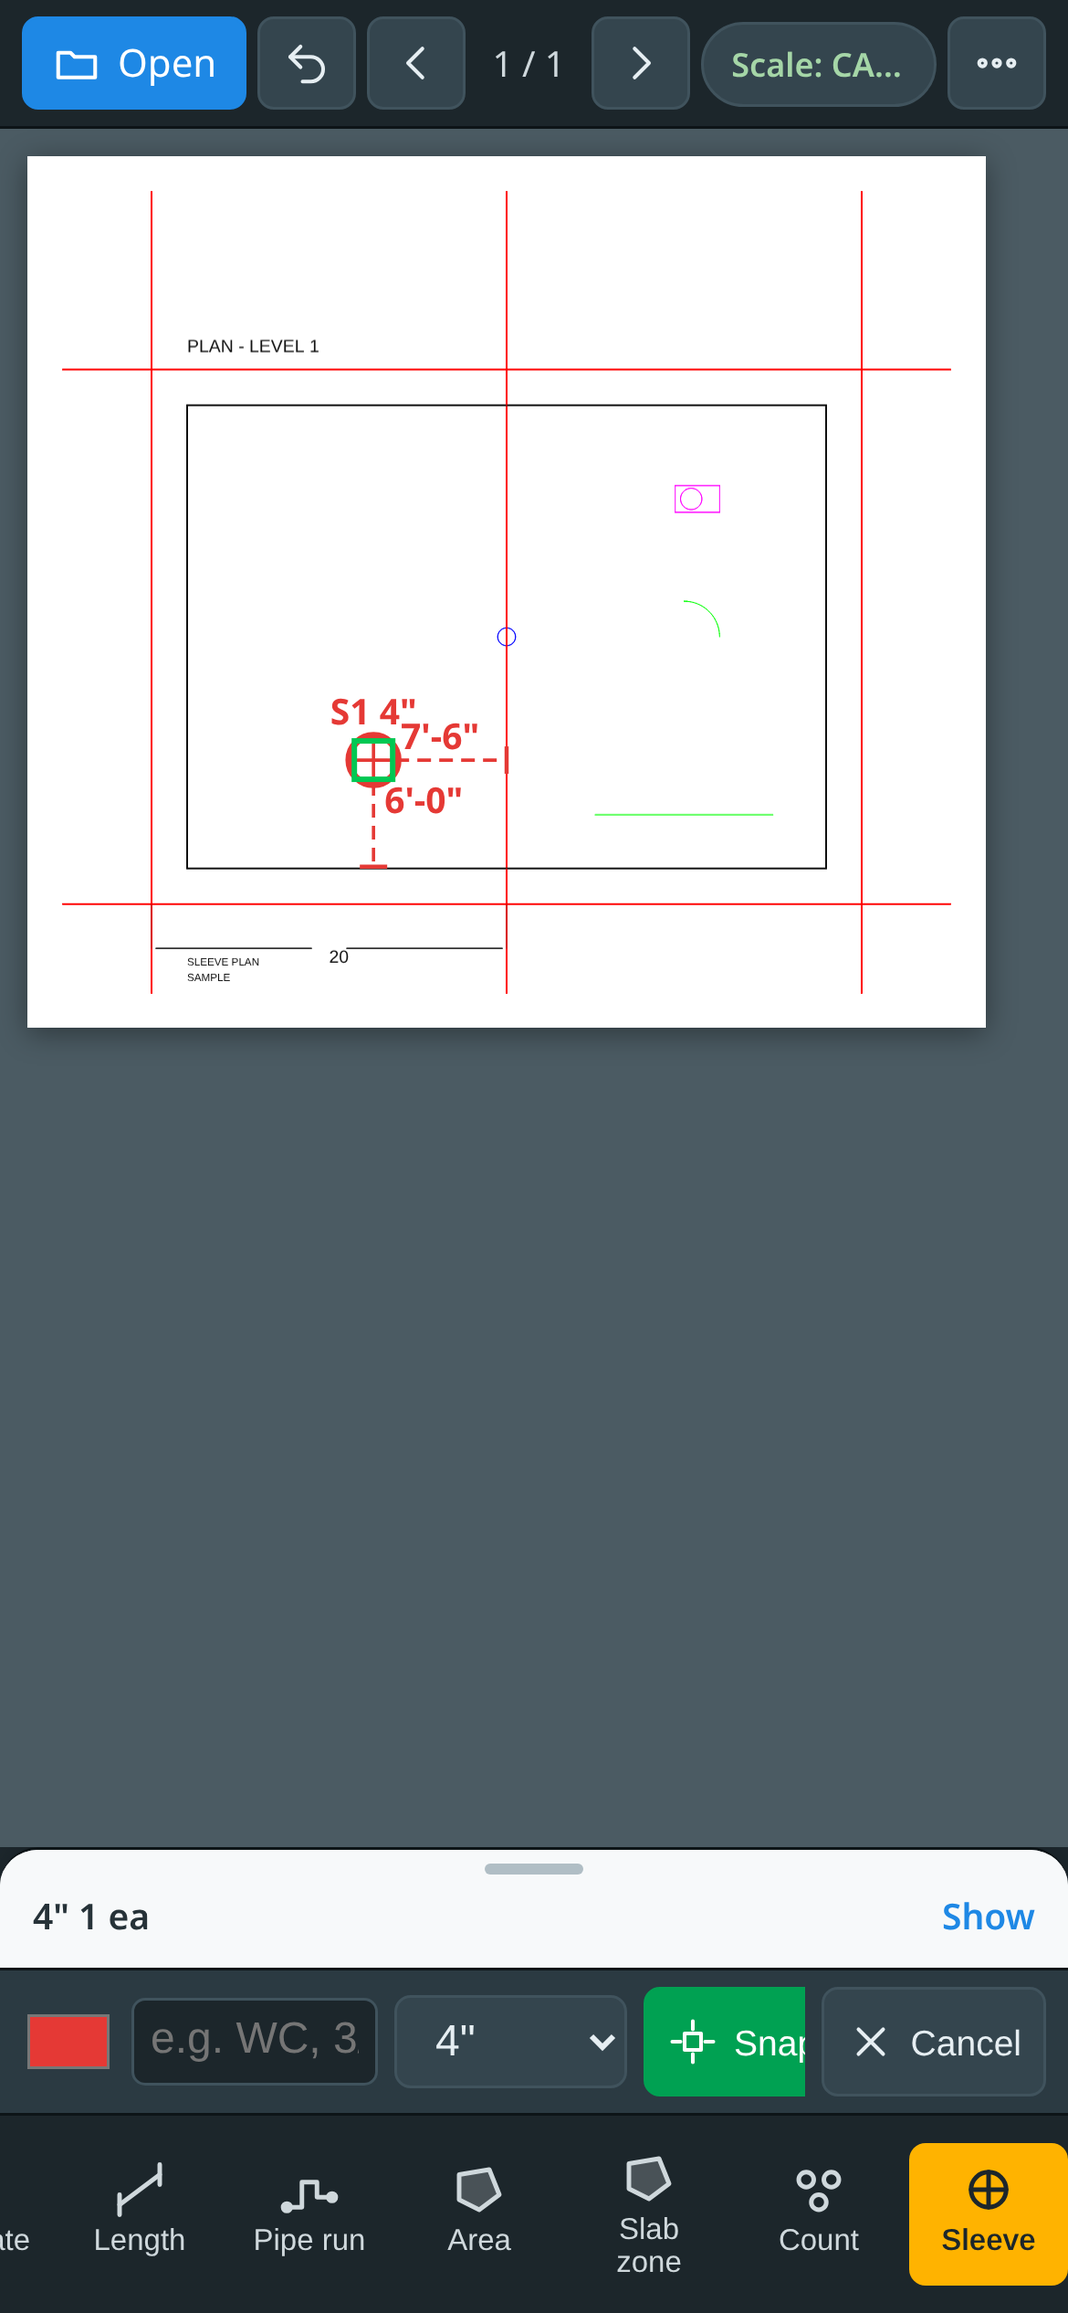
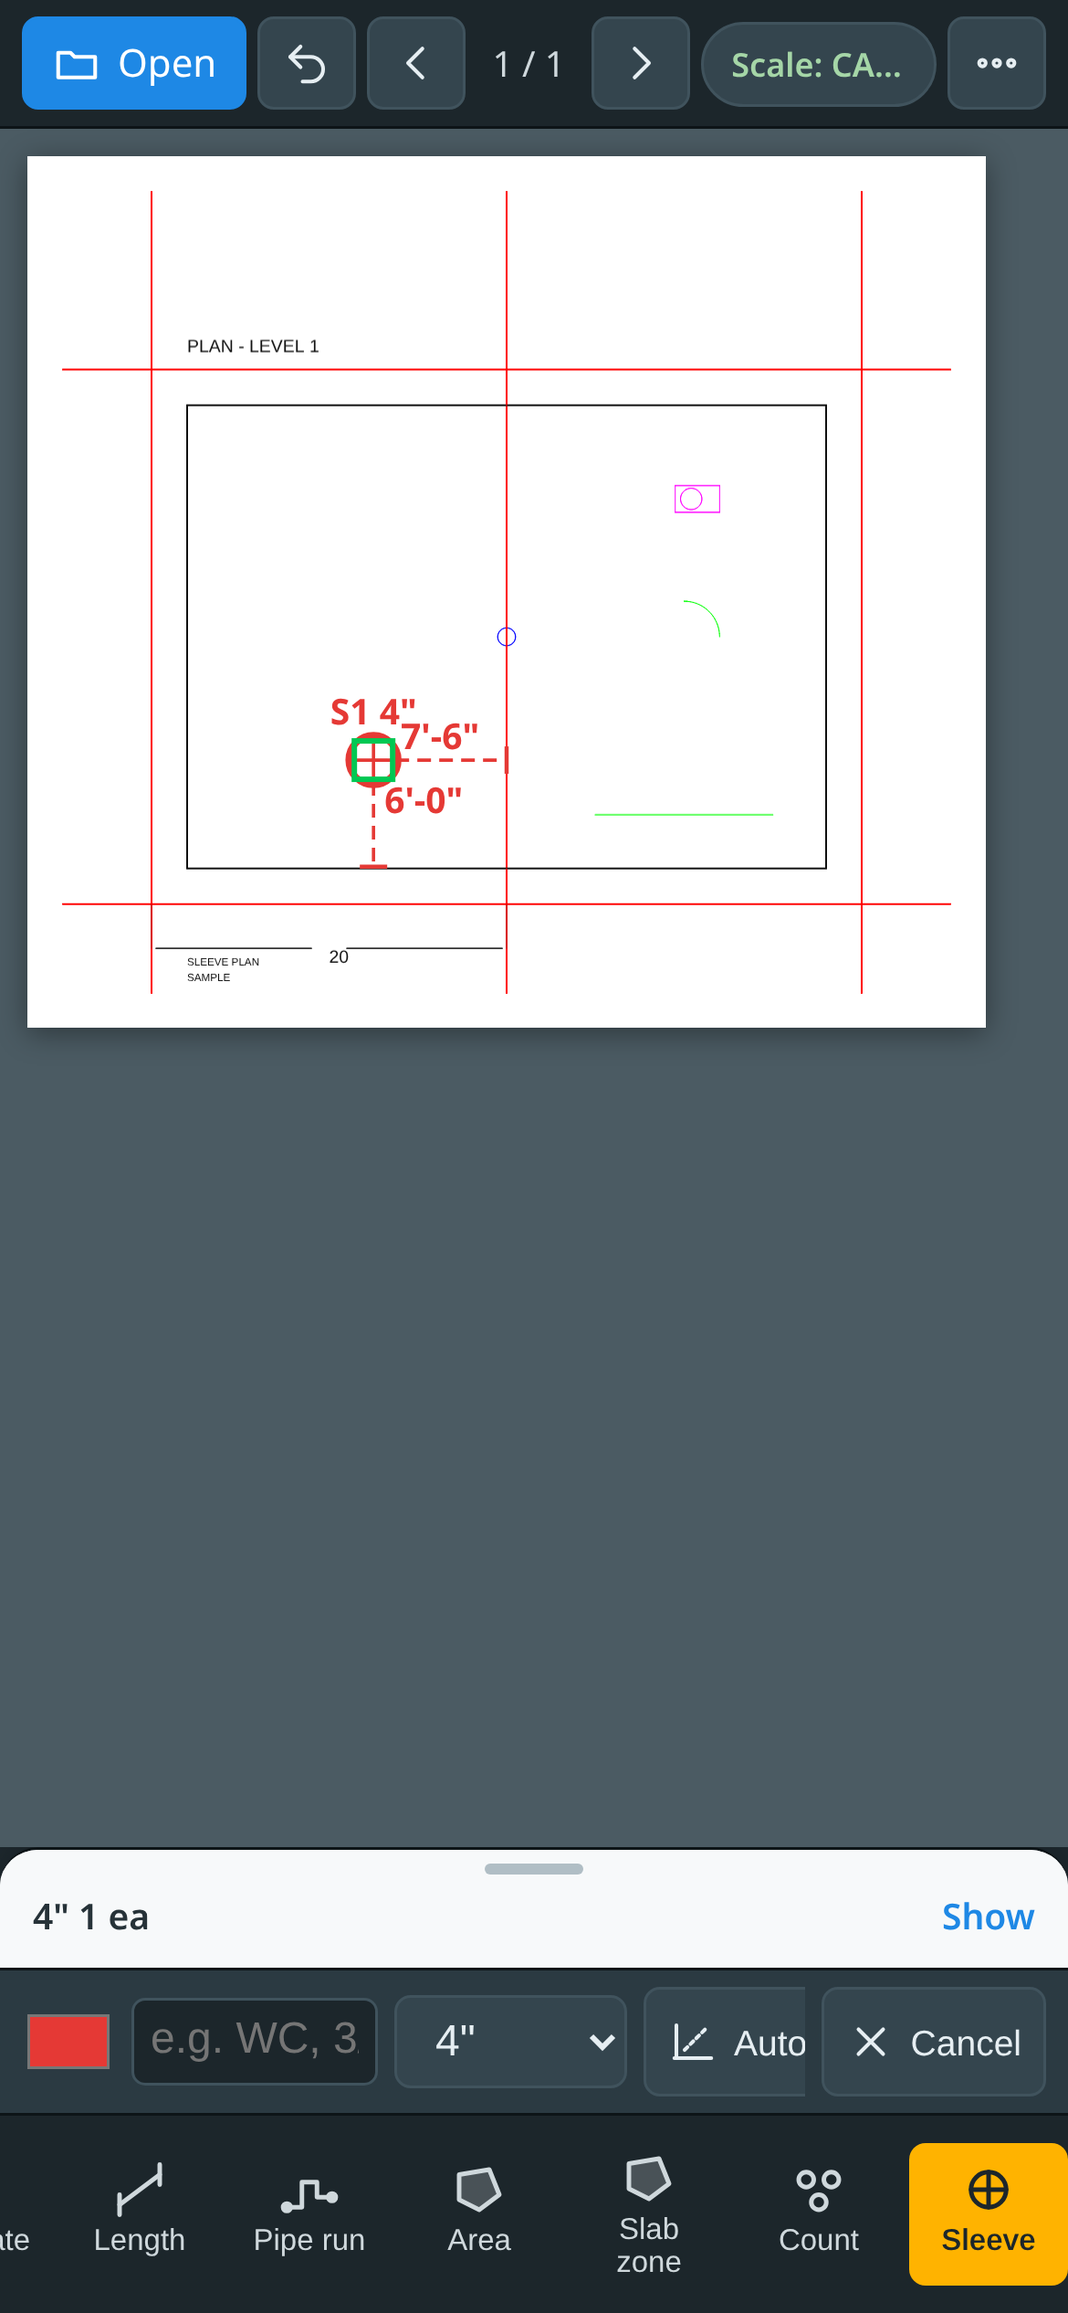
Auto straight with alignment guides; stop iOS long-press selection on the plan

Changed region(s): [[0.5846, 0.8424, 0.7692, 0.9048]]

diff --git a/app.js b/app.js
@@ -8,7 +8,7 @@ const TYPE_NAMES = {line:'Length', poly:'Pipe run', area:'Area', count:'Count', 
 let doc = null;          // {type,name,bytes,pdf,img,numPages,sizes:[{w,h}],vps:[]}
 let proj = null;         // {id,name,units,scales:{},items:[]}
 let page = 1, zoom = 1, tool = 'select', draft = null, hover = null, selId = null;
-let renderTask = null, renderTimer = null, shiftDown = false;
+let renderTask = null, renderTimer = null, shiftDown = false, guide = null, straightOn = localStorage.getItem('pm-straight') !== '0';
 
 // ---------- helpers ----------
 const uid = () => Math.random().toString(36).slice(2, 10) + Date.now().toString(36);
@@ -514,6 +514,7 @@ function loupeOverlay(ctx, p, S, L) {
   const T = q => [(q[0] - p[0]) * S + L / 2, (q[1] - p[1]) * S + L / 2], dpr = window.devicePixelRatio || 1;
   if (draft && draft.pts.length) { ctx.strokeStyle = draft.color; ctx.lineWidth = 1.5 * dpr; ctx.beginPath(); draft.pts.forEach((q, i) => { const [x, y] = T(q); i ? ctx.lineTo(x, y) : ctx.moveTo(x, y); }); if (!(draft.type === 'calibrate' && draft.pts.length === 2) && hover) { const [x, y] = T(hover); ctx.lineTo(x, y); } ctx.stroke();
     draft.pts.forEach((q, i) => { const [x, y] = T(q); ctx.beginPath(); ctx.arc(x, y, (i === calSel ? 5 : 3) * dpr, 0, 7); ctx.strokeStyle = i === calSel ? '#ffb300' : draft.color; ctx.stroke(); }); }
+  if (guide) { ctx.save(); ctx.setLineDash([5 * dpr, 4 * dpr]); ctx.strokeStyle = '#2962ff'; ctx.lineWidth = 1.2 * dpr; for (const [a, b] of guideLines(guide, L / S)) { const A = T(a), B = T(b); ctx.beginPath(); ctx.moveTo(A[0], A[1]); ctx.lineTo(B[0], B[1]); ctx.stroke(); } ctx.restore(); }
   if (snapHit) { const [sx, sy] = T(snapHit.p); drawSnapMark(ctx, sx, sy, snapHit.kind, 7 * dpr, 2 * dpr); }
   ctx.strokeStyle = '#e53935'; ctx.lineWidth = 1 * dpr; const c = L / 2, g = 6 * dpr; ctx.beginPath();
   ctx.moveTo(0, c); ctx.lineTo(c - g, c); ctx.moveTo(c + g, c); ctx.lineTo(L, c); ctx.moveTo(c, 0); ctx.lineTo(c, c - g); ctx.moveTo(c, c + g); ctx.lineTo(c, L); ctx.stroke();
@@ -631,12 +632,18 @@ function findSnap(p, r, exclude) {
 function aim(p, e, prev, exclude) {
   let q = p; const ortho = prev && (e.shiftKey || shiftDown);
   if (ortho) q = snapOrtho(prev, q);
-  snapHit = null;
+  snapHit = null; guide = null;
+  const touchR = e.pointerType && e.pointerType !== 'mouse';
+  const st = !ortho && prev && straightOn && !e.altKey && PLACE.includes(tool) && proj ? straighten(p, prev, (touchR ? 14 : 8) / zoom, exclude) : null;
+  if (st) q = st.q;
   if (snapOn && !e.altKey && doc && proj) {
     if (!geomCache[page]) buildGeom(page);
-    const r = (e.pointerType && e.pointerType !== 'mouse' ? 22 : 12) / zoom, h = findSnap(q, r, exclude);
-    if (h) { snapHit = { p: h.p.slice(), kind: h.kind }; q = h.p.slice(); if (ortho) { const hz = Math.abs(p[0] - prev[0]) >= Math.abs(p[1] - prev[1]); q = hz ? [h.p[0], prev[1]] : [prev[0], h.p[1]]; snapHit.p = q; } }
-  }
+    const r = (touchR ? 22 : 12) / zoom, h = findSnap(ortho ? q : p, r, exclude);
+    if (h) { snapHit = { p: h.p.slice(), kind: h.kind }; q = h.p.slice(); if (ortho) { const hz = Math.abs(p[0] - prev[0]) >= Math.abs(p[1] - prev[1]); q = hz ? [h.p[0], prev[1]] : [prev[0], h.p[1]]; snapHit.p = q; }
+      else if (st) { // snap wins; keep the straight direction / alignment when the snapped point allows it
+        const k = keepStraight(h, st, prev, r); if (k) { q = k; snapHit.p = k; guide = Object.assign({}, st, { q: k }); } else guide = straightInfo(q, prev, exclude); } }
+    else if (st) guide = st;
+  } else if (st) guide = st;
   showSnapMark(); return q;
 }
 function drawSnapMark(ctx, x, y, kind, s, lw) { ctx.save(); ctx.strokeStyle = '#00c853'; ctx.lineWidth = lw; ctx.beginPath();
@@ -644,7 +651,7 @@ function drawSnapMark(ctx, x, y, kind, s, lw) { ctx.save(); ctx.strokeStyle = '#
   else if (kind === 'mid') { ctx.moveTo(x, y - s); ctx.lineTo(x + s, y + s); ctx.lineTo(x - s, y + s); ctx.closePath(); } else if (kind === 'center') { ctx.arc(x, y, s, 0, 7); }
   else { ctx.moveTo(x - s, y); ctx.lineTo(x, y - s); ctx.lineTo(x + s, y); ctx.lineTo(x, y + s); ctx.closePath(); } ctx.stroke(); ctx.restore(); }
 function showSnapMark() { let g = svg.querySelector('#snapG'); if (!g) { g = el('g', { id: 'snapG', 'pointer-events': 'none' }, svg); } g.innerHTML = '';
-  if (!snapHit) return; const [x, y] = snapHit.p, s = 7 / zoom, w = 2 / zoom, A = { fill: 'none', stroke: '#00c853', 'stroke-width': w };
+  drawGuideSvg(g); if (!snapHit) return; const [x, y] = snapHit.p, s = 7 / zoom, w = 2 / zoom, A = { fill: 'none', stroke: '#00c853', 'stroke-width': w };
   if (snapHit.kind === 'end') el('rect', { ...A, x: x - s, y: y - s, width: 2 * s, height: 2 * s }, g);
   else if (snapHit.kind === 'x') el('path', { ...A, d: `M${x - s} ${y - s}L${x + s} ${y + s}M${x + s} ${y - s}L${x - s} ${y + s}` }, g);
   else if (snapHit.kind === 'mid') el('path', { ...A, d: `M${x} ${y - s}L${x + s} ${y + s}L${x - s} ${y + s}Z` }, g);
@@ -967,3 +974,53 @@ const dtd = document.createElement('dialog'); dtd.id = 'delTypeDlg'; dtd.innerHT
 dtd.addEventListener('click', e => { const b = e.target.closest('[data-t]'); if (!b) return; const t = b.dataset.t, ids = proj.items.filter(i => i.page === page && i.type === t).map(i => i.id);
   if (confirm(`Delete all ${ids.length} ${TYPE_NAMES[t]} items on this page? You can undo this.`)) { dtd.close(); deleteItems(ids, ids.length + ' ' + TYPE_NAMES[t] + ' deleted'); } });
 Object.assign(window.PM, { deleteItems, nearHit }); Object.defineProperty(window.PM, 'selId', { get: () => selId });
+
+// ---- Auto straight: lock near-horizontal / vertical / 45 degree / drawing-angle segments, and align with existing points ----
+const ST_TOL = 5 * Math.PI / 180;
+let domAng = null; // dominant drawing angle (rotated CAD grids), radians in [0, 90deg)
+function dominantAngle() { if (domAng !== null) return domAng; const G = geomCache[page]; if (!G || !G.ready) return 0; domAng = 0; if (!G.cad) return domAng;
+  const { sx } = G.cad, n = sx.length / 4, bins = new Float64Array(90); for (let i = 0; i < n; i++) { const dx = sx[4 * i + 2] - sx[4 * i], dy = sx[4 * i + 3] - sx[4 * i + 1], L = Math.hypot(dx, dy); if (!L) continue; let a = Math.atan2(dy, dx) * 180 / Math.PI; a = ((a % 90) + 90) % 90; bins[Math.round(a) % 90] += L; }
+  let b = 0; for (let i = 1; i < 90; i++) if (bins[i] > bins[b]) b = i; const tot = bins.reduce((x, y) => x + y, 0);
+  if (b > 2 && b < 88 && b !== 45 && bins[b] > 0.25 * tot) domAng = b * Math.PI / 180; return domAng; }
+function straightDirs() { const D = [0, Math.PI / 2, Math.PI / 4, 3 * Math.PI / 4], a = dominantAngle(); if (a) D.push(a, a + Math.PI / 2); return D; }
+function alignPts(exclude, prev) { const out = []; if (!proj) return out; for (const it of proj.items) if (it.page === page) for (const q of it.pts) if (q !== exclude) out.push(q); if (draft) for (const q of draft.pts) if (q !== exclude && q !== prev) out.push(q); return out; }
+function straighten(p, prev, tol, exclude) { const dx = p[0] - prev[0], dy = p[1] - prev[1], L = Math.hypot(dx, dy); if (L < 1e-9) return null;
+  const ang = Math.atan2(dy, dx); let best = null, bd = ST_TOL;
+  for (const d of straightDirs()) { let df = Math.abs(((ang - d) % Math.PI + Math.PI * 1.5) % Math.PI - Math.PI / 2); if (df < bd) { bd = df; best = d; } }
+  const A = alignPts(exclude, prev); let ax = null, ay = null, bx = tol, by = tol;
+  for (const q of A) { if (Math.abs(q[0] - p[0]) < bx) { bx = Math.abs(q[0] - p[0]); ax = q; } if (Math.abs(q[1] - p[1]) < by) { by = Math.abs(q[1] - p[1]); ay = q; } }
+  if (best === null && !ax && !ay) return null;
+  let q = p.slice(), dir = null;
+  if (best !== null) { dir = [Math.cos(best), Math.sin(best)]; const t = dx * dir[0] + dy * dir[1]; q = [prev[0] + t * dir[0], prev[1] + t * dir[1]];
+    const hz = Math.abs(dir[1]) < 1e-6, vt = Math.abs(dir[0]) < 1e-6;
+    if (hz) { ay = null; if (ax) q = [ax[0], prev[1]]; } else if (vt) { ax = null; if (ay) q = [prev[0], ay[1]]; }
+    else if (ax) { q = [ax[0], prev[1] + (ax[0] - prev[0]) / dir[0] * dir[1]]; ay = null; } else if (ay) { q = [prev[0] + (ay[1] - prev[1]) / dir[1] * dir[0], ay[1]]; } }
+  else { if (ax) q[0] = ax[0]; if (ay) q[1] = ay[1]; }
+  if (ax && Math.abs(q[0] - ax[0]) > 1e-9) ax = null; if (ay && Math.abs(q[1] - ay[1]) > 1e-9) ay = null;
+  return { q, prev: prev.slice(), dir, ax, ay, straight: best !== null }; }
+function straightInfo(q, prev, exclude) { const s = straighten(q, prev, 1e-6, exclude); return s && s.straight && Math.hypot(s.q[0] - q[0], s.q[1] - q[1]) < 1e-6 ? s : null; }
+function keepStraight(h, st, prev, r) { // snapped point lies on a drawing line: slide along it to meet the straight ray
+  if (!st.dir) return null; if (h.kind !== 'line') { return Math.hypot(h.p[0] - st.q[0], h.p[1] - st.q[1]) < 1e-6 ? h.p.slice() : null; }
+  const G = geomCache[page]; if (!G || !G.ready) return null; const ray = [prev[0], prev[1], prev[0] + st.dir[0] * 1e7, prev[1] + st.dir[1] * 1e7], ray2 = [prev[0], prev[1], prev[0] - st.dir[0] * 1e7, prev[1] - st.dir[1] * 1e7];
+  for (const i of nearSegs(G, h.p, r).slice(0, 200)) { const sg = G.segs[i]; if (dist(projSeg(h.p, sg), h.p) > 1e-6) continue; const x = segX(ray, sg) || segX(ray2, sg); if (x && dist(x, h.p) <= r) return x; }
+  return null; }
+function guideLines(g, span) { const out = [], q = g.q, R = Math.max(span, 4000 / zoom); if (g.dir) out.push([[q[0] - g.dir[0] * R, q[1] - g.dir[1] * R], [q[0] + g.dir[0] * R, q[1] + g.dir[1] * R]]);
+  if (g.ax) out.push([[g.ax[0], g.ax[1]], [q[0], q[1]]]); if (g.ay) out.push([[g.ay[0], g.ay[1]], [q[0], q[1]]]); return out; }
+function drawGuideSvg(g) { if (!guide || !draft) return; const w = 1.2 / zoom, A = { fill: 'none', stroke: '#2962ff', 'stroke-width': w, 'stroke-dasharray': `${6 / zoom} ${4 / zoom}` };
+  for (const [a, b] of guideLines(guide, 1e5)) el('path', { ...A, d: `M${a[0]} ${a[1]}L${b[0]} ${b[1]}` }, g);
+  const txt = guide.straight ? 'straight' : 'aligned', [x, y] = guide.q, fs = 11 / zoom, bw = (txt.length * 6.2 + 8) / zoom;
+  el('rect', { x: x + 10 / zoom, y: y + 8 / zoom, width: bw, height: 15 / zoom, rx: 3 / zoom, fill: '#2962ff' }, g); const t = el('text', { x: x + 14 / zoom, y: y + 19 / zoom, 'font-size': fs, fill: '#fff', 'font-family': 'sans-serif' }, g); t.textContent = txt;
+  g.dataset.guide = txt; }
+(function () { const b = document.createElement('button'); b.id = 'straightBtn'; b.type = 'button'; b.className = 'btn small' + (straightOn ? ' on' : ''); b.title = 'Auto straight: lock near level / plumb / 45 degree lines and line up with other points. Hold Alt to turn off for a moment';
+  b.innerHTML = '<svg class="ic" viewBox="0 0 24 24"><path d="M3 20h18M4 20V4"/><path d="M8 16l10-10" stroke-dasharray="2 2"/></svg><span class="t">Auto straight</span>'; $('#snapBtn').before(b);
+  b.onclick = () => { straightOn = !straightOn; localStorage.setItem('pm-straight', straightOn ? '1' : '0'); b.classList.toggle('on', straightOn); guide = null; showSnapMark(); toast('Auto straight ' + (straightOn ? 'on' : 'off')); }; })();
+const _ldS = loadDoc; loadDoc = async function (...a) { domAng = null; return _ldS(...a); };
+const _gpS = gotoPage; gotoPage = function (...a) { domAng = null; return _gpS(...a); };
+Object.defineProperty(window.PM, 'guide', { get: () => guide }); window.PM.aim = (p, prev, alt) => aim(p, { altKey: !!alt, pointerType: 'mouse' }, prev, null); window.PM.domAngle = () => dominantAngle();
+// iOS: stop long-press selection / callout inside the plan area (pinch and pan are handled by pointer events)
+(function () { const v = vpEl, plan = e => !e.target.closest('input,textarea,select,button,label,a,[contenteditable],#empty');
+  v.addEventListener('touchstart', e => { if (plan(e) && e.touches.length === 1) e.preventDefault(); }, { passive: false });
+  v.addEventListener('contextmenu', e => { if (plan(e)) e.preventDefault(); });
+  v.addEventListener('selectstart', e => { if (plan(e)) e.preventDefault(); });
+  const clr = () => { const s = window.getSelection && getSelection(); if (s && s.rangeCount && !(document.activeElement && document.activeElement.matches('input,textarea'))) s.removeAllRanges(); };
+  document.addEventListener('touchend', clr, { passive: true }); document.addEventListener('touchcancel', clr, { passive: true }); })();

diff --git a/style.css b/style.css
@@ -203,3 +203,7 @@ body.pickmode #viewport{cursor:copy}
 #delTypeDlg .list{display:flex;flex-direction:column;gap:8px;margin:10px 0}
 #moreMenu .btn.danger{justify-content:flex-start}
 @media (max-width:800px){#undoToast{bottom:calc(150px + env(safe-area-inset-bottom))}.rdel{padding:8px 10px}.rdel .ic{width:22px;height:22px}#selBar .btn{min-height:46px;font-size:16px}}
+/* no iOS text selection, callout or tap highlight on the app chrome and plan; inputs stay selectable */
+body,#viewport,#stage,#canvas,#svg,#loupe,#tools,#topbar,nav,header,#drawBar,#selBar,.tool,.btn{-webkit-user-select:none;user-select:none;-webkit-touch-callout:none;-webkit-tap-highlight-color:transparent}
+input,textarea,select,[contenteditable]{-webkit-user-select:text;user-select:text;-webkit-touch-callout:default}
+#canvas,#svg,#stage{touch-action:none}

diff --git a/test/straight.py b/test/straight.py
@@ -1,0 +1,57 @@
+# Auto straight (level / plumb / 45 degree lock, alignment guides, snap precedence, Alt, toggle) + iOS long-press (no selection)
+import sys
+from playwright.sync_api import sync_playwright
+URL = sys.argv[1]; ok = True
+def chk(n, c):
+    global ok; ok &= bool(c); print(('PASS ' if c else 'FAIL ') + n)
+def run(pg, label):
+    pg.goto(URL); pg.set_input_files('#file', 'test/sample-sleeves.dxf'); pg.wait_for_function('window.PM.doc && PM.doc.cad'); pg.wait_for_timeout(800)
+    pg.evaluate("PM.setTool('line'); PMsnap.buildGeom(1)"); pg.wait_for_timeout(300)
+    chk(label + 'Auto straight button visible and on', pg.locator('#straightBtn').count() == 1 and 'on' in pg.get_attribute('#straightBtn', 'class'))
+    a = pg.evaluate("PM.aim([403, 213.5], [300, 210])")  # ~2 degrees off level, away from drawing lines
+    g = pg.evaluate("PM.guide && PM.guide.straight")
+    chk(label + f'near level locked exactly {a}', abs(a[1] - 210) < 1e-9 and g)
+    a = pg.evaluate("PM.aim([304, 300], [300, 210])"); h = pg.evaluate('PMsnap.hit'); chk(label + f'drawing intersection snap wins over straighten {h}', h and h['kind'] in ('x', 'end') and a == h['p'])
+    a = pg.evaluate("PM.aim([303, 250], [300, 210])"); h = pg.evaluate('PMsnap.hit'); chk(label + f'near plumb locked {a} snap={h}', abs(a[0] - 300) < 1e-9 or (h and h['kind'] in ('x', 'end')))
+    a = pg.evaluate("PM.aim([352, 258], [300, 210])"); chk(label + f'near 45 degrees locked {a}', abs((a[0] - 300) - (a[1] - 210)) < 1e-9)
+    a = pg.evaluate("PM.aim([380, 260], [300, 210])"); chk(label + f'32 degrees left alone {a}', a == [380, 260] or pg.evaluate('PM.guide') is None)
+    a = pg.evaluate("PM.aim([403, 213.5], [300, 210], true)"); chk(label + 'Alt turns it off', a == [403, 213.5])
+    pg.click('#straightBtn') if label == 'desktop: ' else pg.evaluate("document.querySelector('#straightBtn').click()")
+    a = pg.evaluate("PM.aim([403, 213.5], [300, 210])"); chk(label + 'toggle off works', a == [403, 213.5])
+    pg.evaluate("document.querySelector('#straightBtn').click()")
+with sync_playwright() as p:
+    b = p.chromium.launch(executable_path='/usr/bin/google-chrome', args=['--no-sandbox']); pg = b.new_page(viewport={'width': 1500, 'height': 900}); errs = []; pg.on('pageerror', lambda e: errs.append(str(e)))
+    run(pg, 'desktop: ')
+    # alignment with an existing point: draw a line, then aim the next one near its end X
+    pg.evaluate("PM.proj.items.push({id:'t1',type:'line',page:1,pts:[[500,400],[520,600]],color:'#e53935',label:''})")
+    a = pg.evaluate("PM.aim([521.5, 300], [420, 330])"); chk(f'desktop: aligned to existing X (and not snapped elsewhere) {a}', abs(a[0] - 520) < 1e-9 and pg.evaluate('!!(PM.guide && PM.guide.ax)'))
+    # real mouse drawing with the guide visible
+    r = pg.evaluate("(()=>{const r=document.querySelector('#svg').getBoundingClientRect();return [r.left,r.top,PM.zoom]})()")
+    sc = lambda x, y: (r[0] + x * r[2], r[1] + y * r[2])
+    pg.mouse.click(*sc(300, 210)); pg.mouse.move(*sc(420, 214)); pg.wait_for_timeout(200)
+    chk('desktop: dashed guide and straight badge drawn', pg.evaluate("document.querySelector('#snapG') && document.querySelector('#snapG').dataset.guide") in ('straight', 'aligned'))
+    pg.mouse.click(*sc(420, 214)); pg.wait_for_timeout(200)
+    ln = pg.evaluate("PM.proj.items.filter(i=>i.type==='line').pop().pts")
+    chk(f'desktop: placed line is exactly level {ln}', abs(ln[0][1] - ln[1][1]) < 1e-9 or (pg.evaluate('PMsnap.hit') is not None))
+    chk('desktop: no errors ' + str(errs), not errs)
+    w = p.webkit.launch(); ctx = w.new_context(**p.devices['iPhone 13']); pg = ctx.new_page(); errs = []; pg.on('pageerror', lambda e: errs.append(str(e)))
+    pg.add_init_script('const _spc=Element.prototype.setPointerCapture;Element.prototype.setPointerCapture=function(i){try{_spc.call(this,i)}catch(e){}}')
+    run(pg, 'iPhone: ')
+    chk('iPhone: Auto straight is in the drawing bar', pg.evaluate("!!document.querySelector('#drawSlot #straightBtn')"))
+    # 2 s long press while placing a point: no text selection, callout blocked, point still placed
+    pg.evaluate("PM.setTool('line')")
+    res = pg.evaluate("""(async()=>{const v=document.querySelector('#viewport'),r=v.getBoundingClientRect(),x=r.left+r.width/2,y=r.top+r.height/2,el=document.elementFromPoint(x,y);
+      const TE=(k,n)=>{const e=new Event(k,{bubbles:true,cancelable:true});Object.defineProperty(e,'touches',{value:{length:n}});return e}; const ts=TE('touchstart',1); el.dispatchEvent(ts);
+      const pe=(k)=>el.dispatchEvent(new PointerEvent(k,{bubbles:true,cancelable:true,pointerType:'touch',isPrimary:true,clientX:x,clientY:y,pointerId:3}));
+      pe('pointerdown'); const cm=new MouseEvent('contextmenu',{bubbles:true,cancelable:true,clientX:x,clientY:y}); await new Promise(r=>setTimeout(r,1000)); el.dispatchEvent(cm);
+      const ss=new Event('selectstart',{bubbles:true,cancelable:true}); el.dispatchEvent(ss); await new Promise(r=>setTimeout(r,1000));
+      pe('pointerup'); getSelection().selectAllChildren(document.querySelector('#hint')||document.body); el.dispatchEvent(TE('touchend',0));
+      const cs=getComputedStyle(document.body);
+      return {ts:ts.defaultPrevented, cm:cm.defaultPrevented, ss:ss.defaultPrevented, sel:String(getSelection()), us:cs.webkitUserSelect||cs.userSelect, call:cs.webkitTouchCallout||'', pts:PM.draft?PM.draft.pts.length:0}})()""")
+    print(res)
+    chk('iPhone long press: touchstart/contextmenu/selectstart blocked', res['ts'] and res['cm'] and res['ss'])
+    chk('iPhone long press: no selection, user-select none', res['sel'] == '' and res['us'] == 'none')
+    chk('iPhone long press: point still placed', res['pts'] >= 1)
+    chk('iPhone: inputs still selectable', pg.evaluate("getComputedStyle(document.querySelector('#label')).webkitUserSelect||getComputedStyle(document.querySelector('#label')).userSelect") in ('text', 'auto'))
+    chk('iPhone: no errors ' + str(errs), not errs)
+print('STRAIGHT PASS' if ok else 'STRAIGHT FAIL'); sys.exit(0 if ok else 1)
